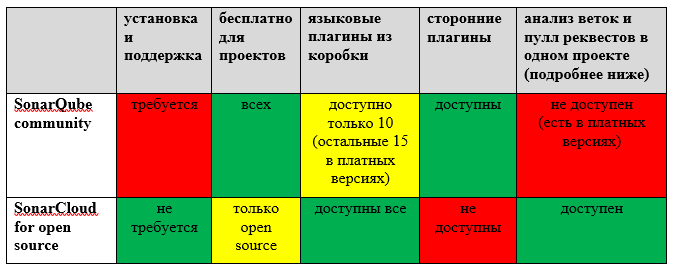
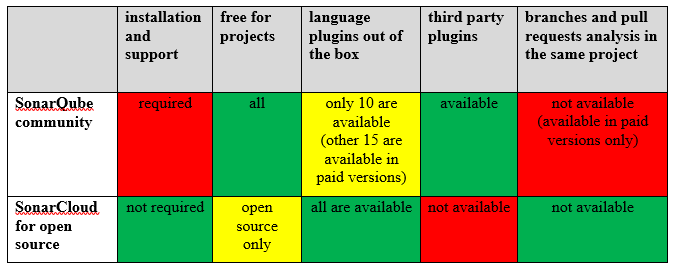
translate

diff --git a/content/articles/3_sonarqube.rst b/content/articles/3_sonarqube.rst
@@ -67,68 +67,62 @@ Now outsiders are not able to login with default admin/admin, but still able to 
 So next step is closing guest access in **Administration > Configuration > Security > Force user
 authentication.** This feature will be also added to role.
 
-Если в SonarQube кроме вас будут ходить и другие члены команды, имеет смысл
-настроить аутентификацию через LDAP (есть в роли), GitHub, Bitbucket,
-Gitlab и т.д.
+If access to SonarQube is required not only for you but for other team members also, it makes sense to configure LDAP authentication (this option exists in the role) or authentication
+via GitHub, Bitbucket, Gitlab, etc.
 
-Переходим к настройке языковых профилей в меню **Quality Profiles**.
-Каждый языковой плагин предоставляет свой built-in профиль – это просто набор активных и неактивных правил, в соответсвии с которыми проверяется код.
-Кроме правил в профиле могут находиться шаблоны, из которых вы можете создать свои правила.
-Вот пример – built-in `профиль <https://sonarcloud.io/organizations/lean-delivery/rules?activation=true&qprofile=AW0kegFj4oPgLAsgGJ2v>`_ языка Python
-(здесь и дальше для иллюстрации я буду давать ссылки на SonarCloud, но в SonarQube все выглядит точно так же). 
+Let's move on to setting up **Quality Profiles**.
+Every language plugin provides built-in quality profile – it's just a set of active and inactive rules, according to which your code is verified.
+Except the rules profile may contain templates and you can use them to create your own rules.
+Here is example – built-in `profile <https://sonarcloud.io/organizations/lean-delivery/rules?activation=true&qprofile=AW0kegFj4oPgLAsgGJ2v>`_ of python language
+(here and below to illustrate something I will give links to SonarCloud, but in SonarQube it looks absolutely the same). 
 
-Если у вас есть свои кастомные профили – вы можете их импортировать еще
-на этапе инсталляции с помощью роли и затем вручную назначить используемыми по умолчанию. Если кастомных профилей нет – отставьте
-все как есть, и по умолчанию будут использоваться Built-in профили. Скорее
-всего в дальнейшем вам все равно понадобится создать свои кастомные
-профили из Built-in профилей, когда вы захотите убрать/добавить правила
-или изменить их настройки.
+If you've got custom profiles – you may import them on installation step using our role and then manually set them as default.
+If no – just leave as is and built-in profiles will be used by default. Most likely later you will anyway have to create custom profiles from built-in profiles when there will be a need
+to activate/inactivate rules or change their settings.
 
-Отдельно нужно рассказать про Java профили. Дело в том, что для Java
-существует 4 актуальных плагина:
+Here I need to tell more about Java profiles, because there are 4 actual Java plugins:
 
--  коробочный sonar-java-plugin с профилем Sonar way, который
-   используется по умолчанию
--  сторонний sonar-findbugs-plugin с 4-мя профилями
--  сторонний sonar-checkstyle-plugin без профилей
--  сторонний sonar-pmd-plugin без профилей
+-  out of the box sonar-java-plugin with Sonar way profile, which is used by default
+-  third-party sonar-findbugs-plugin with 4 profiles
+-  third-party sonar-checkstyle-plugin without profiles
+-  third-party sonar-pmd-plugin without profiles
 
-Таким образом, если вы установите все 4 плагина и оставите настройки
-профилей без изменений – для проверки java кода будет
-использоваться только Sonar way профиль, т.е. будет работать только
-коробочный плагин, а 3 сторонних плагина будут бездействовать. Чтобы для проверки использовались все 4 плагина, я обычно создаю кастомный профиль,
-который включает в себя правила из всех этих плагинов. Есть планы по добавлению этого кастомного java профиля в роль.
+So if you install all 4 plugins and leave Quality Profiles settings as is, then Sonar way profile only will be used for java code verification, in other words you will use out of the box
+plugin only and 3 third-party plugins will stay unused. To use for verification all 4 plugins I usually create custom profile, which includes rules from all 4 plugins.
+We are planning to add this custom java profile to the role.
 
-Следующий шаг – настройка **Quality Gates**. Это набор метрик, в соответсвии с которыми
-проверка кода будет считаться успешной или не успешной. `Дефолтный набор <https://sonarcloud.io/organizations/lean-delivery/quality_gates/show/9>`_ проверяет процент покрытия кода,
-процент дублирования кода, а также рейтинги Maintanability, Reliability, Security. Я обычно использую более упрощенный `кастомный набор <https://sonarcloud.io/organizations/lean-delivery/quality_gates/show/7770>`_,
-во-первых потому что не всегда на проекте есть покрытие кода, во-вторых не всегда у команды есть ресурсы на исправление некритичных ошибок,
-а поэтому рейтинги не нужны, достаточно просто не пропускать блокеры, критикалы (иногда мажоры). Есть планы по добавлению в роль возможности импорта кастомных наборов метрик.
+Next step is **Quality Gates** setup. It's a metrics set, according to which code verification is treated as successful or failed.
+`Default quality gates <https://sonarcloud.io/organizations/lean-delivery/quality_gates/show/9>`_ code coverage percentage,
+duplication percentage, and alos Maintanability, Reliability, Security ratings. I usually use more simple `custom set <https://sonarcloud.io/organizations/lean-delivery/quality_gates/show/7770>`_,
+firstly because not all projects have the code coverage, not all teams have capacity to fix non-critical issues, that's why ratings are not required and it's enough not to pass blockers,
+criticals (and sometimes majors). We are planning to add custom quality gates import to the role.
 
-Далее нужно привязать SonarQube к вашей CI системе. В этой статье я буду говорить о Jenkins. Во-первых, в меню **Administration > Configuration > Webhooks** нужно добавить вебхук на Jenkins
-(или не нужно, если это уже было сделано ролью). Во-вторых, в самом Jenkins нужнo установить плагин SonarQube Scanner, затем в меню **Manage Jenkins > Configure System** добавить SonarQube Server и указать:
+Next you need to do is to bind SonarQube to your CI tool. In this article I'm going to use Jenkins. Firstly go to **Administration > Configuration > Webhooks** and add Jenkins webhook
+(it can be done by role). Secondly in Jenkins you need to install SonarQube Scanner plugin, then add SonarQube Server in **Manage Jenkins > Configure System** and set:
 
-- имя (любое, в дальнейшем будет использоваться в пайплайне)
-- ссылку по которой доступен SonarQube
-- токен, который вы добавляли admin пользователю
+- name (any, will be used later in pipeline)
+- SonarQube url
+- token you've added for admin user
 
-Важный момент про ссылку. Если используется https, то тут есть 2 варианта. Если у вас нормальный сертификат, его надо предварительно указать в SonarQube плейбуке
-(по умолчанию ставится самоподписанный). А если его нет и используется самоподписанный – вам придется импортировать его в Java, на которой работает Jenkins.
+An important note about the url. 2 variants are possible if you use https. If you've got a valid certificate you need to preliminarily set it in SonarQube playbook
+(self-signed is used by default). And if there is no valid certificate and you use self-signed – you need to import it to Java used by Jenkins.
 
-Кстати, для установки Jenkins я рекомендую использовать нашу роль `ansible-jenkins <https://github.com/lean-delivery/ansible-role-jenkins>`_, которая также может установить
-вышеупомянутый плагин и добавить SonarQube в настройках. В планах – опубликовать плейбуку, которая устанавливает связку Jenkins - SonarQube и учитывает этот нюанс с сертификатом.
+By the way, for Jenkins installation I would recommend our `ansible-jenkins <https://github.com/lean-delivery/ansible-role-jenkins>`_ role, which may also install mentioned plugin 
+and add SonarQube Server in the settings. In our further plans – to publish playbook which can install Jenkins + SonarQube bundle and set certificate correctly.
 
-Иногда вместо плагина используют отдельно установленный `sonar-scanner <https://docs.sonarqube.org/latest/analysis/scan/sonarscanner/>`_, а параметры запуска сканера указывают в файле sonar-project.properties.
-На мой взгляд удобнее пользоваться плагином, а параметры запуска передавать прямо в пайплайне.
+Sometimes instead of plugin they use separately installed `sonar-scanner <https://docs.sonarqube.org/latest/analysis/scan/sonarscanner/>`_ and set scan parameters in sonar-project.properties file.
+In my opinion it's more convenient to use plugin and set scan parameters directly in pipeline.
 
-**Пайплайн.**
+**Pipeline.**
 
-Итак рассмотрим ситуацию, когда у вас есть репозиторий с кодом, и вы используете простой git flow: есть главная ветка (develop/master), разработчики добавляют новый код в feature ветках и затем открывают пулл реквесты в главную ветку. Вы хотите использовать SonarQube для проверки как главной ветки, так и пулл реквестов.
-Тут надо сразу сказать, что в бесплатном comminuty SonarQube отсутствует одна важная особенность, которая есть в платных версиях и в SonarCloud – это анализ веток и пулл реквестов в одном проекте. Т.е. в платных версиях и в SonarCloud одному репозиторию будет соответсвовать один проект, в котором анализируются и ветки и пулл реквесты. Вот пример:
+Let's see the case when you've got a repo with a code and use simple git flow: there is main branch (develop/master), developers add new code in feature branches and open pull requests to main branch.
+You plan is to use SonarQube for verification of main branch and pull requests should be also verified.
+Here I need to say that free comminuty SonarQube lacks one important feature, that is available in paid versions and in SonarCloud – branches and pull requests analysis in the same project.
+In other words in paid versions and in SonarCloud one repo generates one project which is used for branches and pull requests analysis. Here is example:
 
 .. image:: {filename}/images/sonarqube_project.png
 
-А вот в бесплатной версии одному репозиторию будет соответсвовать много проектов, потому что придется создавать отдельный проект для главной ветки и для каждого пулл реквеста. И это достаточно неудобно, во-первых, потому что постоянно появляются новые пулл реквесты и вам рано или поздно придется задуматься о том, как автоматически удалять старые проекты. А во-вторых, если у вас несколько репозиториев, получится неразбериха из кучи проектов.
+In free version one repo generates a lot of projects, because you have to create separate project for main branch and for every pull request. И это достаточно неудобно, во-первых, потому что постоянно появляются новые пулл реквесты и вам рано или поздно придется задуматься о том, как автоматически удалять старые проекты. А во-вторых, если у вас несколько репозиториев, получится неразбериха из кучи проектов.
 К счастью пока что есть более удобный способ организовать проверку пулл реквестов с помощью специальных плагинов, но работает он только для версии SonarQube 7.6 и ниже и к тому же не для всех репозиториев:
 
 - для Github – не работает, `sonar-github-plugin <https://github.com/SonarSource/sonar-github>`_ перестал поддерживаться начиная с версии SonarQube 7.2. Теоретически должен работать с версией 7.1, но она уже достаточно устарела и вы не сможете использовать с ней свежие языковые плагины.
